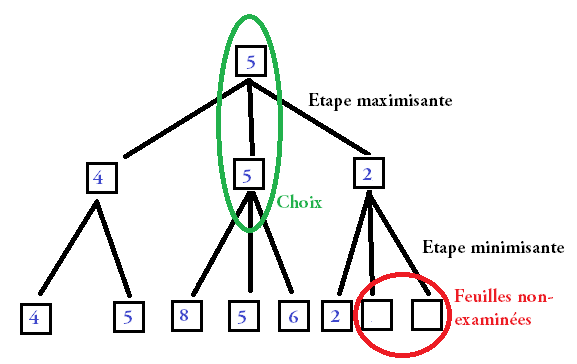
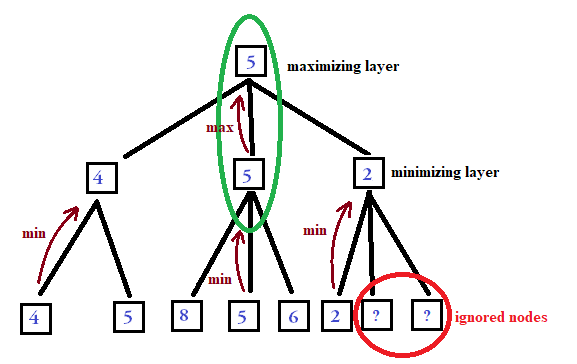
ADD tree images for draughts algos

diff --git a/_posts/2016-06-28-draughts-ai.md b/_posts/2016-06-28-draughts-ai.md
@@ -171,7 +171,12 @@ We observe that there are two kinds of layers. The ones where the player is play
 algorithm tries to maximize $$V$$, and the ones where the opponent is playing (layers indexed by odd numbers), so the algorithm 
 assume they want to minimize $$V$$. So the levels alternate between maximizing and minimizing steps.
 
-Also, before, we assumed that all the branches can be developed beyond the $$L$$-th layer. In practice, this is often true, 
+<div style="text-align: center">
+<img src="/assets/images/finparcoursarbre.png" alt="finparcoursarbre" width="80%">
+<em>Minimax score propagation</em>
+</div>
+
+However, we assumed that all the branches can be developed beyond the $$L$$-th layer. In practice, this is often true, 
 especially in start or mid game situations. However, in the case where there are winning or losing positions, the tree does not 
 develop further in the direction of the corresponding nodes. We can assume that when it's the player's turn and they have 
 possibilities, that means they have lost. So we can affect a $$- \infty$$ value to this node. If this is the opponent who cannot 
@@ -185,38 +190,54 @@ the relevant values, until reaching $$V_1$$. However, in practice, this method i
 built and kept in the memory before starting to calculate the $$V$$ values. 
 
 Instead, a recursive function can be used, taking advantage the minimax algorithm. In this case, it computes and propagates 
-the $$V$$ scores while exploring the tree.
+the $$V$$ scores while exploring the tree depth-first: One branch is developed until the leaf, then the value of its predecessor is found evaluating 
+all its children. Then the value of this predecessor will be used to find the value of its own predecessor, etc.
 
-call Minimax($$X_{root})$$
-
-where:  
-function Minimax($$X$$) is  
-&nbsp;&nbsp;&nbsp;&nbsp;if $$X$$ is in $$L$$-th layer:  
+<div style="text-align: center">
+<img src="/assets/images/arbre.png" alt="arbre" width="80%">
+<em>Exploration order of the minimax algorithm</em>
+</div>
+  
+Algorithm:  
+  
+**return** *Minimax*($$X_{root}$$)
+  
+where:
+  
+**function** *Minimax*($$X$$) **is**  
+  
+&nbsp;&nbsp;&nbsp;&nbsp;**if** $$X$$ is in $$L$$-th layer **then**  
 &nbsp;&nbsp;&nbsp;&nbsp;
-&nbsp;&nbsp;&nbsp;&nbsp;return $$f(X)$$  
-&nbsp;&nbsp;&nbsp;&nbsp;elif $$X$$ is in a maximizing layer ($$l$$ is even):  
+&nbsp;&nbsp;&nbsp;&nbsp;**return** $$f(X)$$  
+  
+&nbsp;&nbsp;&nbsp;&nbsp;**else if** $$X$$ is in a maximizing layer ($$l$$ is even) **then**  
 &nbsp;&nbsp;&nbsp;&nbsp;
 &nbsp;&nbsp;&nbsp;&nbsp;result := $$- \infty$$  
 &nbsp;&nbsp;&nbsp;&nbsp;
-&nbsp;&nbsp;&nbsp;&nbsp;for each child $$X_i$$:  
+&nbsp;&nbsp;&nbsp;&nbsp;**for each** child $$X_i$$ **do**  
 &nbsp;&nbsp;&nbsp;&nbsp;
 &nbsp;&nbsp;&nbsp;&nbsp;
-&nbsp;&nbsp;&nbsp;&nbsp;result := $$\max$$(result, Minimax($$X_i$$))  
+&nbsp;&nbsp;&nbsp;&nbsp;result := $$\max$$(result, *Minimax*($$X_i$$))  
 &nbsp;&nbsp;&nbsp;&nbsp;
-&nbsp;&nbsp;&nbsp;&nbsp;return result  
-&nbsp;&nbsp;&nbsp;&nbsp;else:  
+&nbsp;&nbsp;&nbsp;&nbsp;**end for**  
+&nbsp;&nbsp;&nbsp;&nbsp;
+&nbsp;&nbsp;&nbsp;&nbsp;**return** result  
+  
+&nbsp;&nbsp;&nbsp;&nbsp;**else**  
 &nbsp;&nbsp;&nbsp;&nbsp;
 &nbsp;&nbsp;&nbsp;&nbsp;result := $$+ \infty$$  
 &nbsp;&nbsp;&nbsp;&nbsp;
-&nbsp;&nbsp;&nbsp;&nbsp;for each child $$X_i$$:  
+&nbsp;&nbsp;&nbsp;&nbsp;**for each** child $$X_i$$ **do**  
 &nbsp;&nbsp;&nbsp;&nbsp;
 &nbsp;&nbsp;&nbsp;&nbsp;
-&nbsp;&nbsp;&nbsp;&nbsp;result := $$\min$$(result, Minimax($$X_i$$))  
+&nbsp;&nbsp;&nbsp;&nbsp;result := $$\min$$(result, *Minimax*($$X_i$$))  
 &nbsp;&nbsp;&nbsp;&nbsp;
-&nbsp;&nbsp;&nbsp;&nbsp;return result  
+&nbsp;&nbsp;&nbsp;&nbsp;**end for**  
+&nbsp;&nbsp;&nbsp;&nbsp;
+&nbsp;&nbsp;&nbsp;&nbsp;**return** result    
+  
+&nbsp;&nbsp;&nbsp;&nbsp;**end if**  
 
-This is a depth-first exploration: One branch is developed until the leaf, then the value of its predecessor is found evaluating 
-all its children. Then the value of this predecessor will be used to find the value of its own predecessor, etc.
 
 ### Alpha-beta pruning
 
@@ -227,30 +248,47 @@ to maximize the value, they will not play any move scoring below $$\alpha$$ and 
 they will not play any move scoring above $$\beta$$. That means that when $$\alpha \geq \beta$$, it's not worth exploring the rest 
 of the branch anymore.
 
+<div style="text-align: center">
+<img src="/assets/images/arbrealpha.png" alt="arbrealpha" width="80%">
+<em>Ignored nodes with alpha-beta</em>
+</div>
+
+Algorithm:  
+
 $$\alpha$$ := $$- \infty$$  
 $$\beta$$ := $$+ \infty$$  
-call Minimax($$X_{root}$$, $$\alpha$$, $$\beta$$)
+**return** *Minimax*($$X_{root}$$, $$\alpha$$, $$\beta$$)
 
 where:  
-function Minimax($$X$$, $$\alpha$$, $$\beta$$) is  
-&nbsp;&nbsp;&nbsp;&nbsp;if $$X$$ is in $$L$$-th layer:  
-&nbsp;&nbsp;&nbsp;&nbsp;&nbsp;&nbsp;&nbsp;&nbsp;return $$f(X)$$  
-&nbsp;&nbsp;&nbsp;&nbsp;elif $$X$$ is in a maximizing layer ($$l$$ is even):  
+
+**function** *Minimax*($$X$$, $$\alpha$$, $$\beta$$) **is**  
+  
+&nbsp;&nbsp;&nbsp;&nbsp;**if** $$X$$ is in $$L$$-th layer **then**  
+&nbsp;&nbsp;&nbsp;&nbsp;&nbsp;&nbsp;&nbsp;&nbsp;**return** $$f(X)$$  
+  
+&nbsp;&nbsp;&nbsp;&nbsp;**else if** $$X$$ is in a maximizing layer ($$l$$ is even) **then**  
 &nbsp;&nbsp;&nbsp;&nbsp;&nbsp;&nbsp;&nbsp;&nbsp;result := $$- \infty$$  
-&nbsp;&nbsp;&nbsp;&nbsp;&nbsp;&nbsp;&nbsp;&nbsp;for each child $$X_i$$:  
-&nbsp;&nbsp;&nbsp;&nbsp;&nbsp;&nbsp;&nbsp;&nbsp;&nbsp;&nbsp;&nbsp;&nbsp;result := $$\max$$(result, Minimax($$X_i$$, $$\alpha$$, $$\beta$$))  
+&nbsp;&nbsp;&nbsp;&nbsp;&nbsp;&nbsp;&nbsp;&nbsp;**for each** child $$X_i$$ **do**  
+&nbsp;&nbsp;&nbsp;&nbsp;&nbsp;&nbsp;&nbsp;&nbsp;&nbsp;&nbsp;&nbsp;&nbsp;result := $$\max$$(result, *Minimax*($$X_i$$, $$\alpha$$, $$\beta$$))  
 &nbsp;&nbsp;&nbsp;&nbsp;&nbsp;&nbsp;&nbsp;&nbsp;&nbsp;&nbsp;&nbsp;&nbsp;$$\alpha$$ := $$\max$$($$\alpha$$, result)  
-&nbsp;&nbsp;&nbsp;&nbsp;&nbsp;&nbsp;&nbsp;&nbsp;&nbsp;&nbsp;&nbsp;&nbsp;if $$\alpha \geq \beta$$:  
-&nbsp;&nbsp;&nbsp;&nbsp;&nbsp;&nbsp;&nbsp;&nbsp;&nbsp;&nbsp;&nbsp;&nbsp;&nbsp;&nbsp;&nbsp;&nbsp;break  
-&nbsp;&nbsp;&nbsp;&nbsp;&nbsp;&nbsp;&nbsp;&nbsp;return $$\alpha$$  
-&nbsp;&nbsp;&nbsp;&nbsp;else:  
+&nbsp;&nbsp;&nbsp;&nbsp;&nbsp;&nbsp;&nbsp;&nbsp;&nbsp;&nbsp;&nbsp;&nbsp;**if** $$\alpha \geq \beta$$ **then**  
+&nbsp;&nbsp;&nbsp;&nbsp;&nbsp;&nbsp;&nbsp;&nbsp;&nbsp;&nbsp;&nbsp;&nbsp;&nbsp;&nbsp;&nbsp;&nbsp;**break**  
+&nbsp;&nbsp;&nbsp;&nbsp;&nbsp;&nbsp;&nbsp;&nbsp;&nbsp;&nbsp;&nbsp;&nbsp;**end if**  
+&nbsp;&nbsp;&nbsp;&nbsp;&nbsp;&nbsp;&nbsp;&nbsp;**end for**  
+&nbsp;&nbsp;&nbsp;&nbsp;&nbsp;&nbsp;&nbsp;&nbsp;**return** $$\alpha$$  
+  
+&nbsp;&nbsp;&nbsp;&nbsp;**else**  
 &nbsp;&nbsp;&nbsp;&nbsp;&nbsp;&nbsp;&nbsp;&nbsp;result := $$+ \infty$$  
-&nbsp;&nbsp;&nbsp;&nbsp;&nbsp;&nbsp;&nbsp;&nbsp;for each child $$X_i$$:  
-&nbsp;&nbsp;&nbsp;&nbsp;&nbsp;&nbsp;&nbsp;&nbsp;&nbsp;&nbsp;&nbsp;&nbsp;result := $$\min$$(result, Minimax($$X_i$$, $$\alpha$$, $$\beta$$))  
+&nbsp;&nbsp;&nbsp;&nbsp;&nbsp;&nbsp;&nbsp;&nbsp;**for each** child $$X_i$$ **do**  
+&nbsp;&nbsp;&nbsp;&nbsp;&nbsp;&nbsp;&nbsp;&nbsp;&nbsp;&nbsp;&nbsp;&nbsp;result := $$\min$$(result, *Minimax*($$X_i$$, $$\alpha$$, $$\beta$$))  
 &nbsp;&nbsp;&nbsp;&nbsp;&nbsp;&nbsp;&nbsp;&nbsp;&nbsp;&nbsp;&nbsp;&nbsp;$$\beta$$ := min($$\beta$$, result)  
-&nbsp;&nbsp;&nbsp;&nbsp;&nbsp;&nbsp;&nbsp;&nbsp;&nbsp;&nbsp;&nbsp;&nbsp;if $$\alpha \geq \beta$$:  
-&nbsp;&nbsp;&nbsp;&nbsp;&nbsp;&nbsp;&nbsp;&nbsp;&nbsp;&nbsp;&nbsp;&nbsp;&nbsp;&nbsp;&nbsp;&nbsp;break  
-&nbsp;&nbsp;&nbsp;&nbsp;&nbsp;&nbsp;&nbsp;&nbsp;return $$\beta$$  
+&nbsp;&nbsp;&nbsp;&nbsp;&nbsp;&nbsp;&nbsp;&nbsp;&nbsp;&nbsp;&nbsp;&nbsp;**if** $$\alpha \geq \beta$$ **then**  
+&nbsp;&nbsp;&nbsp;&nbsp;&nbsp;&nbsp;&nbsp;&nbsp;&nbsp;&nbsp;&nbsp;&nbsp;&nbsp;&nbsp;&nbsp;&nbsp;**break**  
+&nbsp;&nbsp;&nbsp;&nbsp;&nbsp;&nbsp;&nbsp;&nbsp;&nbsp;&nbsp;&nbsp;&nbsp;**end if**  
+&nbsp;&nbsp;&nbsp;&nbsp;&nbsp;&nbsp;&nbsp;&nbsp;**end for**  
+&nbsp;&nbsp;&nbsp;&nbsp;&nbsp;&nbsp;&nbsp;&nbsp;**return** $$\beta$$  
+  
+&nbsp;&nbsp;&nbsp;&nbsp;**end if**  
 
 ### Horizon effect
 
@@ -264,4 +302,9 @@ This can be worked around by evaluating the quietness of a position. For example
 be noisy if there are possible captures, quiet otherwise. Then, on the last layer, the algorithm can continue to develop the tree 
 after the maximum depth, but only for the noisy positions, until all the leaves are quiet. Thus, for a small cost, the algorithm 
 can avoid obvious hidden traps that were beyond its vision (or horizon).
+
+<div style="text-align: center">
+<img src="/assets/images/arbrehorizon.png" alt="arbrehorizon" width="80%">
+<em>Tree continued after the max depth (2) to avoid the horizon effect</em>
+</div>
 
